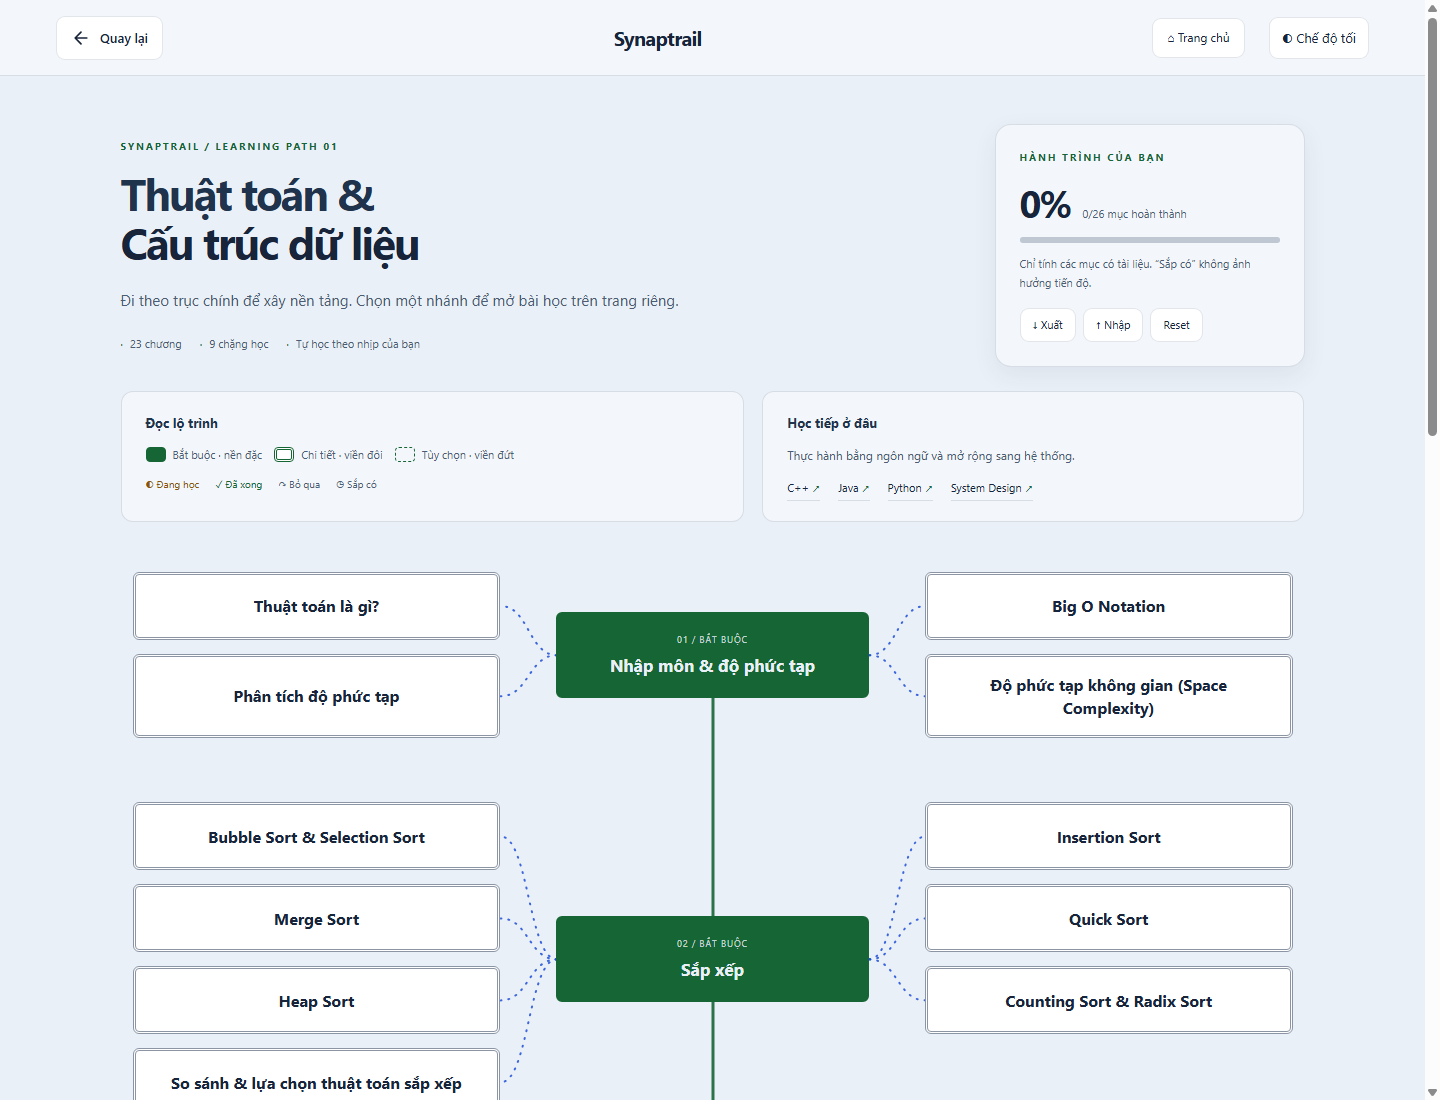
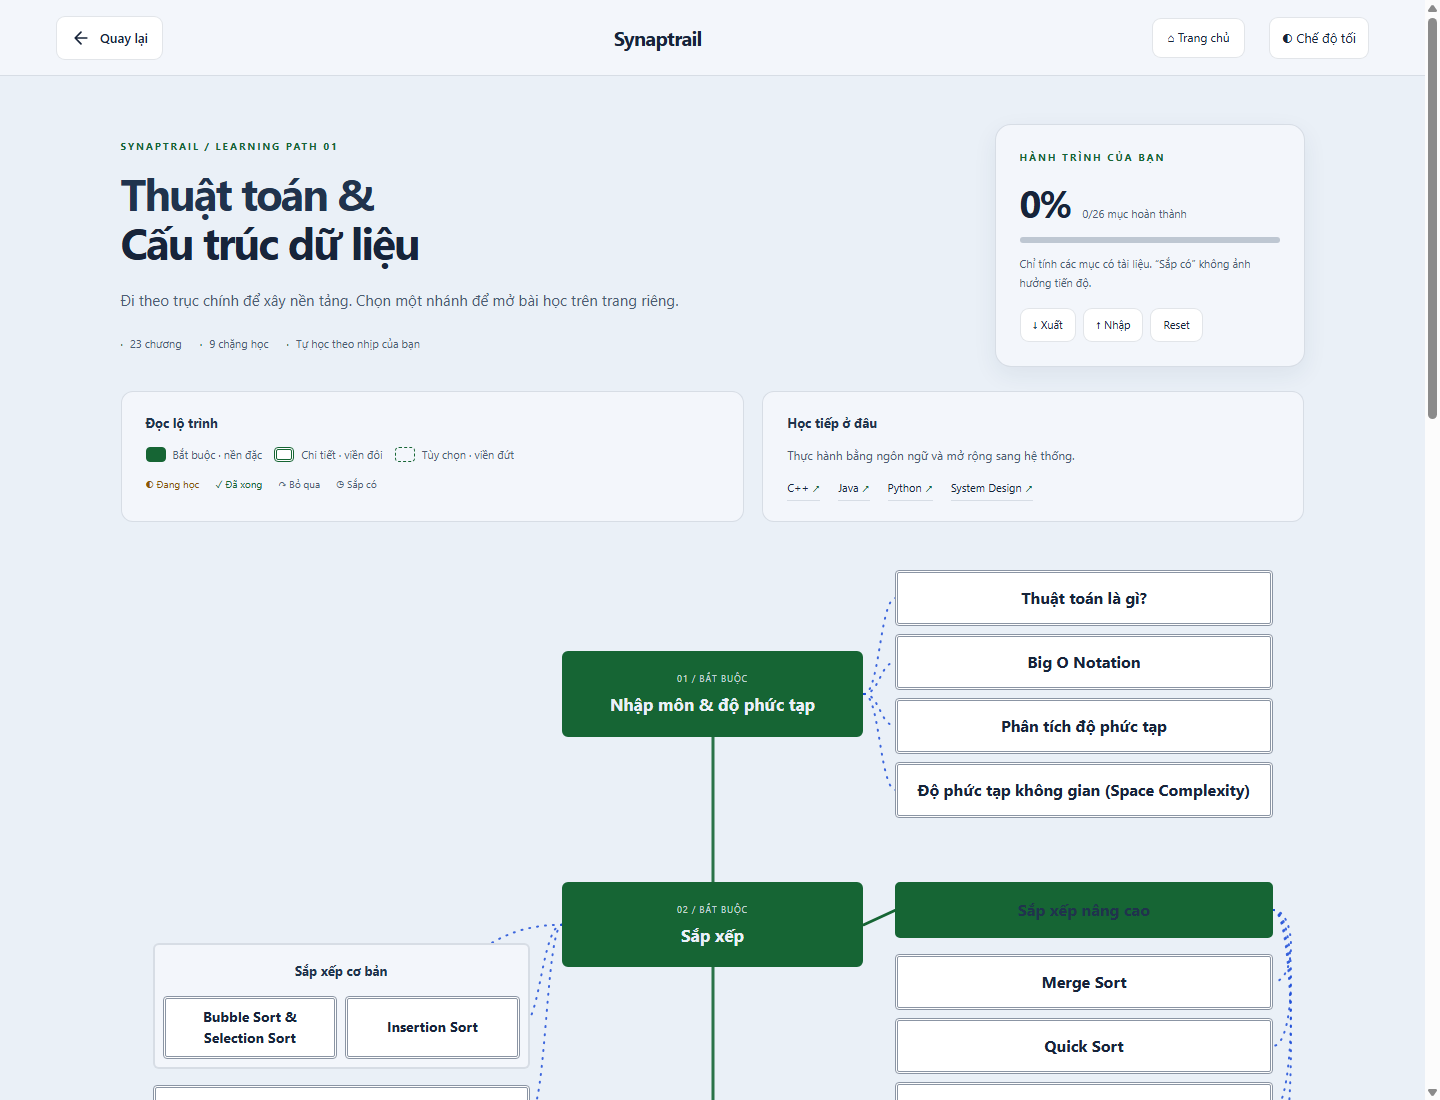
Oct 15, 2026, 1:26 PM

diff --git a/assets/roadmap.css b/assets/roadmap.css
@@ -134,6 +134,24 @@ html[data-theme=light] .rm-connections .rm-branch-line{opacity:.85}
 .ap-pagination{display:flex;justify-content:space-between;gap:20px;margin-top:36px;padding-top:24px;border-top:1px solid var(--surface-border)}.ap-pagination a{display:inline-flex;align-items:center;gap:8px;padding:10px 0;font-size:13px}
 .ap-copy{float:right;position:relative;z-index:1;margin:8px 8px -44px 0;padding:5px 10px!important;min-height:30px!important;font-size:11px!important}
 .algorithm-lesson .rm-lesson-content pre{padding-top:52px!important}
+
+/* Stage-specific branch clusters instead of a repeated symmetric grid. */
+.rm-map{--rm-rail-gap:var(--space-3);--rm-node-height:calc(var(--space-4) + var(--space-3));padding:var(--space-3) var(--space-4) var(--space-4)}
+.rm-stage{grid-template-columns:minmax(0,1fr) minmax(180px,.8fr) minmax(0,1fr);column-gap:var(--space-4);row-gap:0;grid-auto-rows:auto;padding-bottom:calc(var(--space-4)*2)}
+.rm-branch-column{grid-row:1;display:flex;flex-direction:column;gap:var(--space-2);min-width:0;align-self:center}
+.rm-branch-column[data-side=left]{grid-column:1}.rm-branch-column[data-side=right]{grid-column:3}
+.rm-branch-group{display:grid;gap:var(--space-1);min-width:0;position:relative}
+.rm-branch-framed{padding:var(--space-1);border:2px solid var(--surface-border);border-radius:6px;background:var(--surface-soft)}
+.rm-branch-tiles{grid-template-columns:repeat(2,minmax(0,1fr))}
+.algorithm-roadmap .rm-branch-heading{grid-column:1/-1;text-align:center;font-size:13px;font-weight:650;line-height:1.5;padding:var(--space-1);margin:0;color:var(--content-primary)!important;-webkit-text-fill-color:currentColor!important}
+.algorithm-roadmap .rm-branch-hub{background:var(--rm-accent);color:var(--surface-page)!important;-webkit-text-fill-color:currentColor!important;border:2px solid var(--rm-accent);border-radius:5px;font-size:16px;min-height:var(--rm-node-height);display:flex;align-items:center;justify-content:center;margin-bottom:var(--space-1)}
+.rm-stage-has-hub>.rm-node{align-self:start!important}
+.algorithm-roadmap .rm-branch-group .rm-node{min-height:var(--rm-node-height);padding:var(--space-1) var(--space-2)!important;border-radius:4px}
+.rm-branch-tiles .rm-node-title{font-size:14px}
+.rm-connections .rm-hub-line{stroke:var(--rm-accent);stroke-width:3}
+@media(max-width:1000px) and (min-width:768px){.rm-stage{grid-template-columns:minmax(0,1fr) minmax(145px,.8fr) minmax(0,1fr);column-gap:var(--space-3)}.rm-branch-tiles{grid-template-columns:1fr}.rm-map{padding-left:var(--space-2);padding-right:var(--space-3)}}
+@media(max-width:767px){.rm-map{padding:var(--space-2) var(--space-1)}.rm-branch-column{width:100%;gap:var(--space-2)}.rm-branch-column:empty{display:none}.rm-branch-group{gap:var(--space-1)}.rm-branch-group .rm-node{margin-left:0;width:100%}.rm-branch-column{padding-left:var(--space-2)}.rm-stage{gap:var(--space-2);padding-bottom:var(--space-4)}}
+@media(prefers-reduced-motion:reduce){.rm-branch-column{width:100%;padding-left:var(--space-2)}.rm-branch-column:empty{display:none}.rm-branch-group .rm-node{margin-left:0;width:100%}}
 .ap-select-label{display:block;font-size:13px;margin-bottom:8px}.algorithm-roadmap #ap-quiz-select{width:100%;font:inherit;background:var(--surface-card)!important;color:var(--content-primary)!important;border:1px solid var(--surface-border);border-radius:9px;padding:12px;margin-bottom:24px}
 .algorithm-quiz .rm-quiz{padding:24px;background:var(--surface-soft);border:1px solid var(--surface-border);border-radius:12px;margin:0 0 20px}.algorithm-quiz .rm-quiz legend{font-size:16px;line-height:1.7;float:left;width:100%;margin-bottom:16px}.algorithm-quiz .rm-quiz label{clear:both;font-size:14px;line-height:1.7;padding:12px;background:var(--surface-card)}
 .ap-answer{font-size:13px;line-height:1.8;color:var(--content-secondary);padding:12px;margin-top:14px!important;border-left:3px solid var(--rm-accent)}

diff --git a/assets/roadmap.js b/assets/roadmap.js
@@ -59,7 +59,7 @@
         const connected=new Set();
         data.nodes.filter(n=>n.parent===node.id).forEach(child=>{
           const button=buttons.get(child.id),b=box(child.id),left=button.dataset.branchSide==='left',hub=hubs.get(button.dataset.hub);
-          if(hub){const h=rect(hub);if(!connected.has(hub)){const sx=left?a.x:a.x+a.w,ex=left?h.x+h.w:h.x;path(`M ${sx} ${a.y+a.h/2} L ${ex} ${h.y+h.h/2}`,'rm-hub-line');connected.add(hub);}const sx=h.x+h.w/2,sy=h.y+h.h,ex=b.x+b.w/2,ey=b.y;path(`M ${sx} ${sy} C ${sx} ${(sy+ey)/2}, ${ex} ${(sy+ey)/2}, ${ex} ${ey}`,'rm-branch-line');}
+          if(hub){const h=rect(hub);if(!connected.has(hub)){const sx=left?a.x:a.x+a.w,ex=left?h.x+h.w:h.x;path(`M ${sx} ${a.y+a.h/2} L ${ex} ${h.y+h.h/2}`,'rm-hub-line');connected.add(hub);}const sx=left?h.x:h.x+h.w,sy=h.y+h.h/2,ex=left?b.x:b.x+b.w,ey=b.y+b.h/2,gap=parseFloat(getComputedStyle(map).getPropertyValue('--rm-rail-gap')),rail=(left?Math.min(sx,ex):Math.max(sx,ex))+(left?-gap:gap);path(`M ${sx} ${sy} C ${rail} ${sy}, ${rail} ${ey}, ${ex} ${ey}`,'rm-branch-line');}
           else{const sx=left?a.x:a.x+a.w,sy=a.y+a.h/2,ex=left?b.x+b.w:b.x,ey=b.y+b.h/2,mid=(sx+ex)/2;path(`M ${sx} ${sy} C ${mid} ${sy}, ${mid} ${ey}, ${ex} ${ey}`,'rm-branch-line');}
         });
       });
